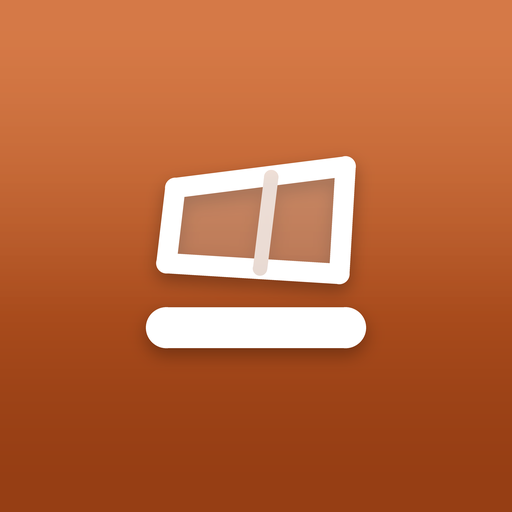
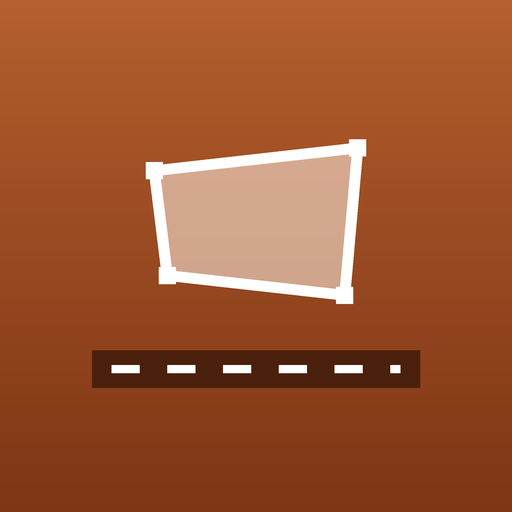
Arsa simgesi: uretec ile eser AYRISMISTI, ustelik uc yerde birden
EN ONEMLI BULGU. `simge_olustur.py` simgeyi MAVI (28,95,214) ciziyordu;
diskteki ve YAYINDAKI simge ise TURUNCU (151,62,20) idi. Yani simge bir
noktada elle degistirilmis, uretec geride kalmisti.

Bu dosyayi calistiran biri -- ki adi tam da bunu davet ediyor --
simgeyi FARKINDA OLMADAN bambaska bir tasarimla degistirirdi. Arac ile
eserin sessizce ayrismasi, aracin hic olmamasindan tehlikelidir:
"uretecim var" diye guvenilir.

AYNI AYRISMA UC YERDE VARDI:
  · PNG ureteci   -> mavi
  · simge.svg     -> mavi (#1c5fd6): sekmede mavi, ana ekranda turuncu
  · kapak.png     -> mavi (Play Store one cikan gorsel)
Uc yerde ELLE tutulan bir renk, uc farkli deger tutuyordu. Hepsi artik
TEK KAYNAKTAN turetiliyor (TOPRAK_UST / TOPRAK_ALT).

TASARIM. Eski simge PENCERE gibi okunuyordu: kalin beyaz cerceve, icinde
dikey bir cita ve altta ayrik bir hap. Uc duzeltme:
  · Cizgi inceltildi (0.050 -> 0.034) -- cerceve hissi kalkti.
  · Parselin ic dolgusu belirginlesti (alfa 45 -> 140): icerisi artik
    "arazi" gibi duruyor, bos degil.
  · YOL gercekten yol gibi cizildi: yalniz kesik cizgi "yol" degil
    "sinir" cagristiriyordu. Simdi asfalt seridi + beyaz orta cizgi.
  · Kadastro kose isaretleri kucultuldu (0.038 -> 0.026); eskiden sinir
    cizgisini yutup koseleri sismis gosteriyordu.
  · Zemin duz renk yerine dikey gecis; duz renk yassi durur.

Renk KORUNDU (toprak): uygulamanin konusu arsa ve filodaki obur
simgelerden ayrisiyor -- Hava mavi, Kur lacivert, Muhasebe yesil.

DOGRULAMA:
[…]

diff --git a/arsa/index.html b/arsa/index.html
@@ -95,7 +95,7 @@
 <meta name="twitter:title" content="Arsa Rehberi — arsa almadan önce kontrol edin" />
 <meta name="twitter:description" content="Tapuda arsa mı arazi mi, ne yapılabilir, kaça mal olur? Resmî cetvele dayalı taban değer." />
 <meta name="twitter:image" content="https://meteotr06.github.io/arsa/onizleme/paylasim-karti.png" />
-<link rel="stylesheet" href="stil.css?v=143" />
+<link rel="stylesheet" href="stil.css?v=144" />
 </head>
 <body>
 
@@ -585,14 +585,14 @@
     <p class="kucuk"><a href="gizlilik.html" style="color:var(--vurgu)">Gizlilik politikası</a> — parsel bilgileriniz ve defteriniz cihazınızda kalır; yalnızca haritayı açtığınızda seçtiğiniz yerin adı harita servisine gider.</p>
 </footer>
 
-<script src="degisiklikler.js?v=143" onerror="(window.__betikHata=window.__betikHata||[]).push('degisiklikler.js')"></script>
-<script src="cekirdek.js?v=143" onerror="(window.__betikHata=window.__betikHata||[]).push('cekirdek.js')"></script>
-<script src="mevzuat.js?v=143" onerror="(window.__betikHata=window.__betikHata||[]).push('mevzuat.js')"></script>
-<script src="rayic.js?v=143" onerror="(window.__betikHata=window.__betikHata||[]).push('rayic.js')"></script>
-<script src="parsel.js?v=143" onerror="(window.__betikHata=window.__betikHata||[]).push('parsel.js')"></script>
-    <script src="arayuz.js?v=143" onerror="(window.__betikHata=window.__betikHata||[]).push('arayuz.js')"></script>
-<script src="kurulum.js?v=143" onerror="(window.__betikHata=window.__betikHata||[]).push('kurulum.js')"></script>
-<script src="guncelle.js?v=143" onerror="(window.__betikHata=window.__betikHata||[]).push('guncelle.js')"></script>
+<script src="degisiklikler.js?v=144" onerror="(window.__betikHata=window.__betikHata||[]).push('degisiklikler.js')"></script>
+<script src="cekirdek.js?v=144" onerror="(window.__betikHata=window.__betikHata||[]).push('cekirdek.js')"></script>
+<script src="mevzuat.js?v=144" onerror="(window.__betikHata=window.__betikHata||[]).push('mevzuat.js')"></script>
+<script src="rayic.js?v=144" onerror="(window.__betikHata=window.__betikHata||[]).push('rayic.js')"></script>
+<script src="parsel.js?v=144" onerror="(window.__betikHata=window.__betikHata||[]).push('parsel.js')"></script>
+    <script src="arayuz.js?v=144" onerror="(window.__betikHata=window.__betikHata||[]).push('arayuz.js')"></script>
+<script src="kurulum.js?v=144" onerror="(window.__betikHata=window.__betikHata||[]).push('kurulum.js')"></script>
+<script src="guncelle.js?v=144" onerror="(window.__betikHata=window.__betikHata||[]).push('guncelle.js')"></script>
 <script>
 /* KURULUM DAVETI. Ortak modul: HESAP MAKINESI\ortak\kurulum.js
    Anahtar UYGULAMAYA OZEL -- ortak anahtar kullanilsaydi bir uygulamada

diff --git a/arsa/neler-degisti.html b/arsa/neler-degisti.html
@@ -9,7 +9,7 @@
 <link rel="icon" href="simge.svg" type="image/svg+xml" />
 <link rel="apple-touch-icon" href="ikon-192.png" />
 <link rel="manifest" href="manifest.json" />
-<link rel="stylesheet" href="stil.css?v=143" />
+<link rel="stylesheet" href="stil.css?v=144" />
 </head>
 <body>
 
@@ -60,7 +60,7 @@
     <p class="kucuk"><a href="./" style="color:var(--vurgu)">Uygulamaya dön</a></p>
 </footer>
 
-<script src="degisiklikler.js?v=143"></script>
+<script src="degisiklikler.js?v=144"></script>
 <script>
 /* Liste `degisiklikler.js`ten kuruluyor. TEK KAYNAK: açılıştaki şerit de
    aynı diziyi okuyor. Aynı metni iki yerde elle tutmak, ikisinin

diff --git a/arsa/gizlilik.html b/arsa/gizlilik.html
@@ -9,7 +9,7 @@
 <link rel="icon" href="simge.svg" type="image/svg+xml" />
 <link rel="apple-touch-icon" href="ikon-192.png" />
 <link rel="manifest" href="manifest.json" />
-<link rel="stylesheet" href="stil.css?v=143" />
+<link rel="stylesheet" href="stil.css?v=144" />
 </head>
 <body>
 

diff --git a/arsa/sw.js b/arsa/sw.js
@@ -11,7 +11,7 @@
 //
 // SÜRÜM HER YAYINDA ARTMALI. Artmazsa kullanıcı eski sürümde kalır.
 
-const SURUM = "arsa-v143";
+const SURUM = "arsa-v144";
 
 // SURUM ETIKETI TEK YERDEN TURETILIR.
 // Olculdu (27.08.2026): burada "?v=10" yaziliydi ama index.html "?v=19"
